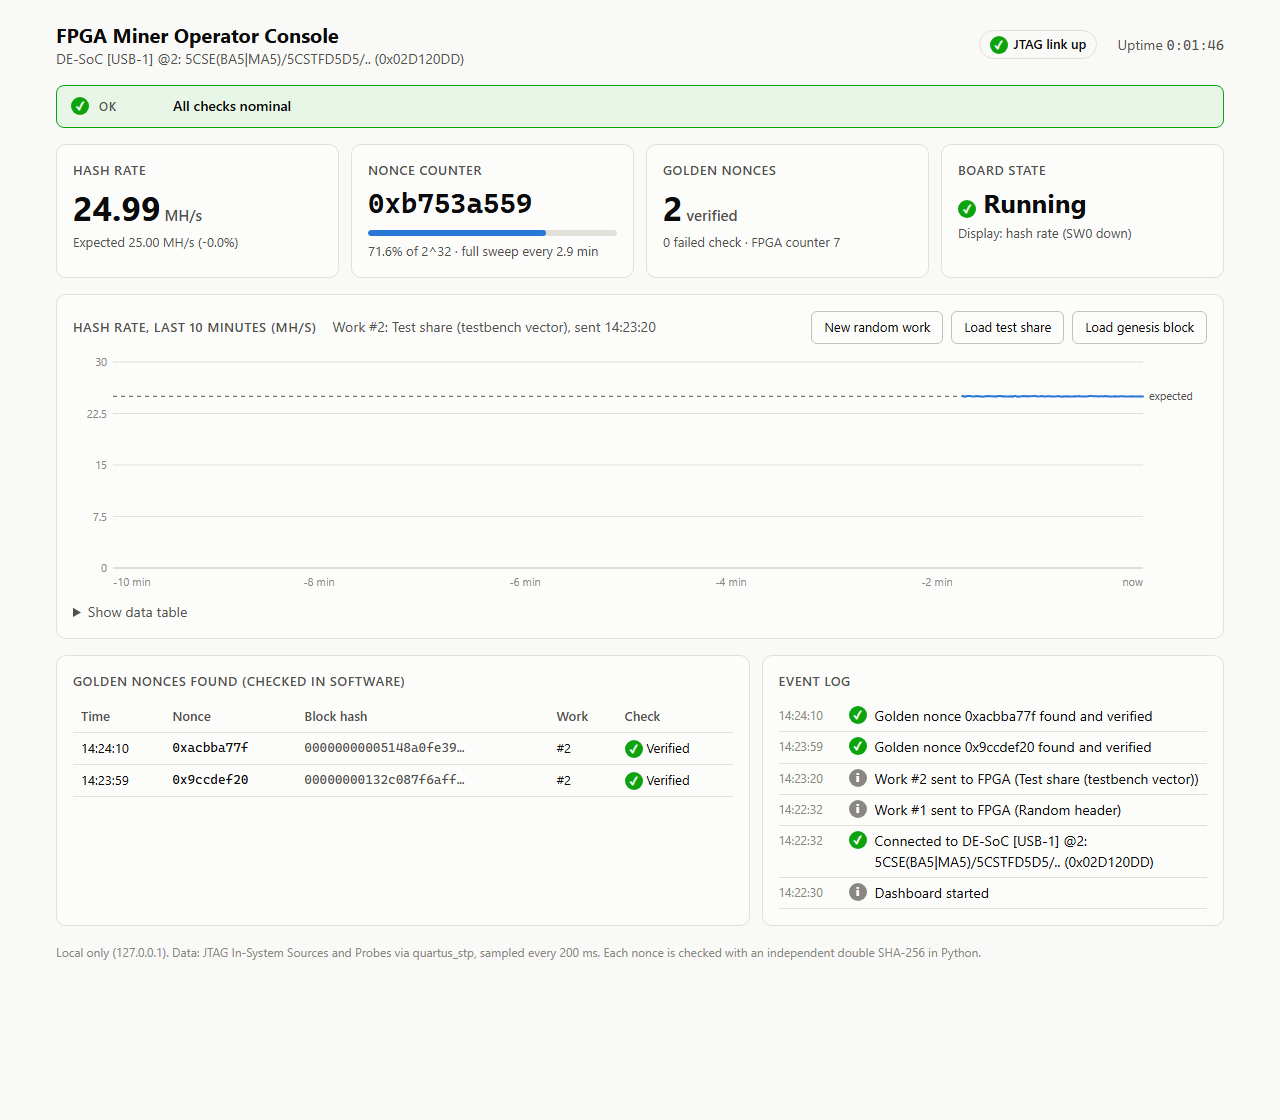
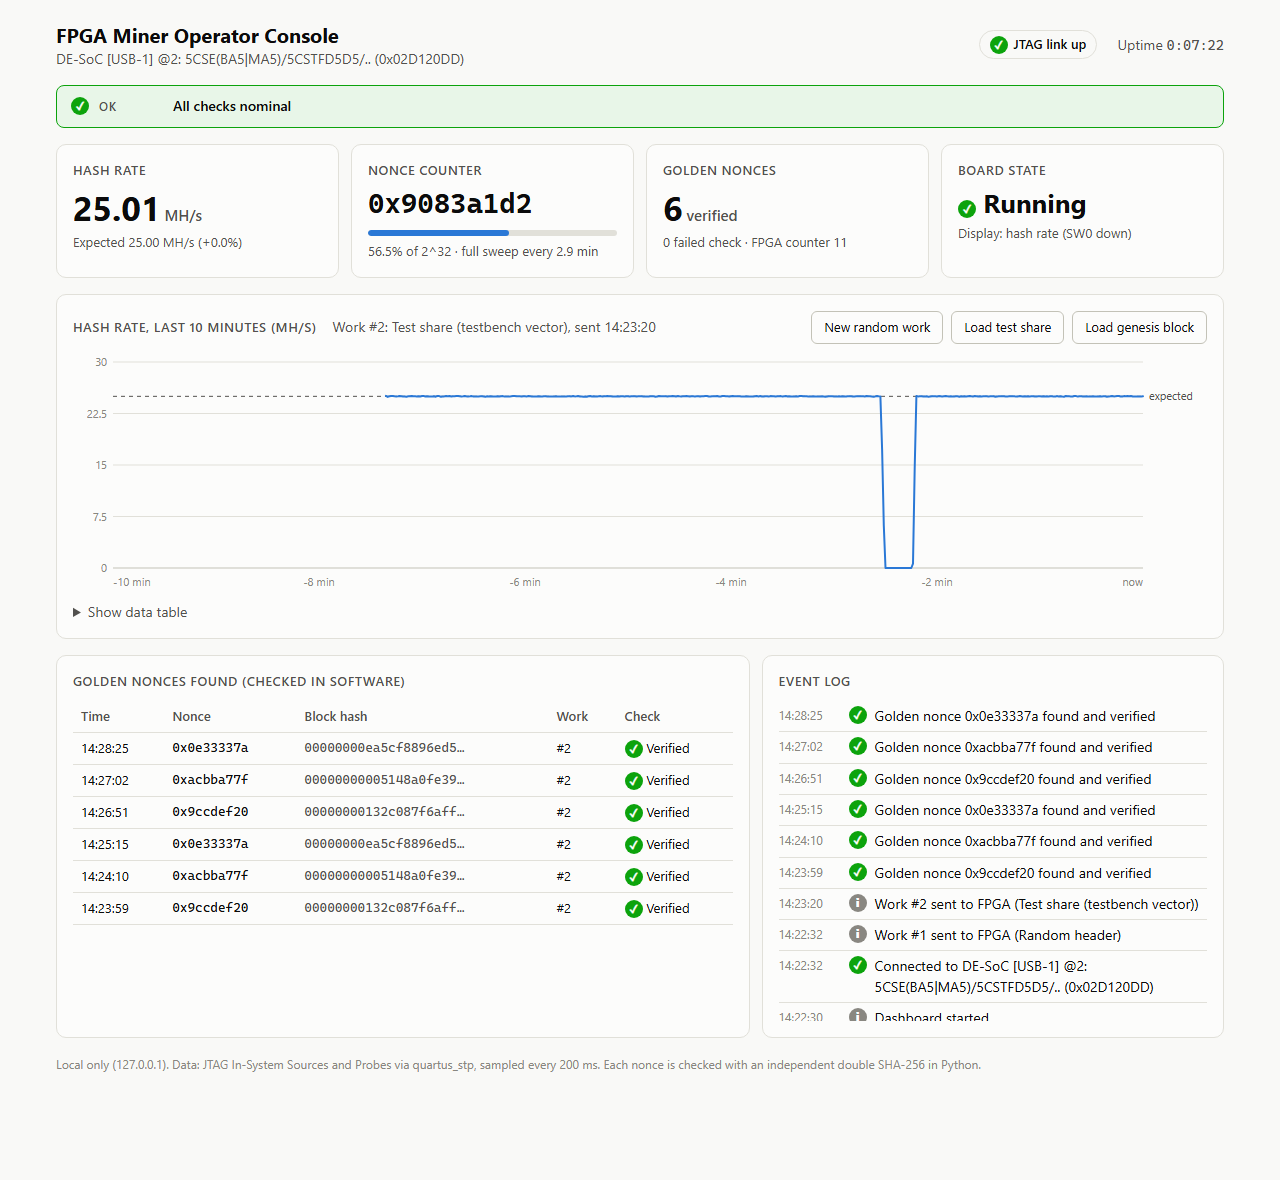
README: dashboard screenshot up front, explain mining and SHA-256
- Fresh screenshot from the live board (six verified nonces, halt test)
  placed under the status table
- "How it works": block header and proof-of-work, the SHA-256
  compression, midstate/double-hash split between host and FPGA, the
  round-unit pipeline and LOOP_LOG2 trade-off, golden-nonce offset
- Economics with November 2026 network figures: why this cannot profit
- Dashboard: evaluate alarms on a background timer so events raised and
  cleared while no browser is open are still logged

diff --git a/scripts/hmi/dashboard.py b/scripts/hmi/dashboard.py
@@ -445,6 +445,14 @@ def main():
             sys.exit("Quartus (quartus_stp.exe) not found. Set QUARTUS_ROOTDIR or install to D:\\altera_lite.")
         Bridge(monitor, stp).start()
 
+    # Evaluate alarms continuously, not only when a browser polls, so alarms
+    # raised and cleared while nobody is watching still reach the event log.
+    def evaluate_alarms():
+        while True:
+            monitor.snapshot()
+            time.sleep(0.5)
+    threading.Thread(target=evaluate_alarms, daemon=True).start()
+
     server = ThreadingHTTPServer(("127.0.0.1", args.port), make_handler(monitor))
     print(f"Dashboard: http://127.0.0.1:{args.port}  (Ctrl+C to stop)")
     try:

diff --git a/README.md b/README.md
@@ -19,13 +19,104 @@ boards and Quartus II 10.x from 2011.
 | Self-test | 2/2 known-answer vectors passed on the board |
 | Independent check | The FPGA also found two nonces that were not planted (`0x9ccdef20`, `0xacbba77f`). Both were confirmed as valid with `hashlib` |
 
+![Operator dashboard running against the DE1-SoC](docs/dashboard.png)
+
+*The operator dashboard running live against the DE1-SoC: 25 MH/s, with six
+golden nonces found by the FPGA and each re-verified in software. The dip to
+0 MH/s is an operator halt test using SW9 on the board.*
+
+### How it works
+
+#### Bitcoin mining in one paragraph
+
+A Bitcoin block header is 80 bytes: version, previous block hash, Merkle root
+of the block's transactions, timestamp, difficulty target (`bits`) and a 32-bit
+**nonce**. The block's hash is `SHA-256(SHA-256(header))`, read as a 256-bit
+little-endian number. A block is valid only if that number is below the
+network target. SHA-256 cannot be reversed, so the only way to find a valid
+header is to try nonces one after another and hash each one. That is the work
+in proof-of-work. The miner whose header meets the target first earns the block
+reward, which is paid to an address in a transaction the miner put in the block.
+
+#### SHA-256
+
+SHA-256 processes data in 512-bit blocks and keeps a state of eight 32-bit
+words `H0..H7`, starting from fixed constants. Each block goes through one
+*compression*:
+
+1. **Message schedule.** The block supplies 16 words `W0..W15`. 48 more are
+   derived as `W[t] = σ1(W[t-2]) + W[t-7] + σ0(W[t-15]) + W[t-16]`, where σ0
+   and σ1 are fixed rotate/shift/XOR mixes.
+2. **64 rounds.** Working variables `a..h` start from the state. Each round
+   computes `T1 = h + Σ1(e) + Ch(e,f,g) + K[t] + W[t]` and
+   `T2 = Σ0(a) + Maj(a,b,c)`, then shifts the variables down one place, with
+   `e += T1` and a new `a = T1 + T2`. Ch ("choose") and Maj ("majority") are
+   bitwise selectors, and `K[t]` are 64 fixed constants.
+3. **Feed-forward.** The final `a..h` are added to the starting state, giving
+   the new `H0..H7`.
+
+All arithmetic is 32-bit addition modulo 2^32. A padded 80-byte header is two
+blocks; the 32-byte result of the first hash, padded, is one more.
+
+#### How this hardware computes it
+
+| Step | Where | What |
+|------|-------|------|
+| Midstate | Host, once per work unit | The first 64 bytes of the header contain no nonce, so their compression is the same for every nonce. The host computes it once and writes the result (`STAT`) to the FPGA. The remaining 12 header bytes go in `DAT2`. |
+| Hash 1, block 2 | FPGA | Starting from the midstate: the last 12 header bytes, plus the nonce, plus SHA-256 padding. |
+| Hash 2 | FPGA | SHA-256 of the 32-byte result, starting from the standard initial values. |
+| Target check | FPGA, then host | The FPGA flags a **golden nonce** when the top 32 bits of the final hash are zero, meaning it is below 2^224 ("difficulty 1"). The host then checks the full hash in software. |
+
+That is 2 compressions, or 128 rounds, per nonce. Each round is one
+`sha256_digester`: one round's adders plus pipeline registers holding the
+working variables and a 16-word sliding window of the message schedule. Most of
+the 31k registers are in these windows. `sha256_transform` chains round units
+into a pipeline:
+
+- **`CONFIG_LOOP_LOG2=0`**: 64 units per compression, 128 in total. One new
+  nonce enters every clock.
+- **`CONFIG_LOOP_LOG2=2`** (this build): 16 units per compression, 32 in total,
+  each reused for 4 consecutive rounds. That is a quarter of the logic and a quarter of the
+  throughput, so 100 MHz / 4 = **25 MH/s**.
+
+Because the pipeline is deep, the nonce counter has moved on by the time a
+result comes out. The reported nonce is therefore `current nonce − pipeline
+latency`, which is why the HMI masks the check while the counter is halted.
+
+#### Can it make money? No, by about ten orders of magnitude
+
+Figures as of November 2026: network hash rate about 1,000 EH/s (10^21 hashes
+per second), difficulty about 148 T, block reward 3.125 BTC.
+
+| | |
+|---|---|
+| This board's share of the network | 25 × 10^6 / 10^21 = **2.5 × 10^-14** |
+| Hashes needed to find one block | difficulty × 2^32 ≈ 6 × 10^23 |
+| Expected time to find a block solo | **about 800 million years** at 25 MH/s |
+| Expected earnings at the board's share | 450 BTC/day × 2.5 × 10^-14 ≈ **0.4 satoshi per year** (1 satoshi = 10^-8 BTC) |
+| Electricity | A few watts, costing far more than that |
+
+A real block needs roughly 79 leading zero bits in the hash. This design's
+golden nonces have 32. They prove the pipeline computes SHA-256 correctly, but
+they are worth nothing on the network.
+
+Pools don't help either. They pay out per *share* of work, but their minimum
+share difficulty is far above difficulty 1, and they now use the Stratum
+protocol rather than the getwork protocol this code speaks. A single current
+ASIC miner runs at hundreds of TH/s, millions of times faster than this board.
+Mining for real would also need a Bitcoin address to receive payouts, which
+this project deliberately does not have.
+
+This is an FPGA design, verification and HMI exercise that uses Bitcoin's
+hashing as a well-defined, independently checkable workload.
+
 ### What changed
 
 | Area | Change |
 |------|--------|
 | Board support | New `boards/DE1_SoC` pin and device constraints (50 MHz clock on `PIN_AF14`). |
 | Clocking | New `cores/cyclone_v_pll`: Cyclone V has no `altpll`, so this wraps `altera_pll`. It keeps the same integer parameters as the Cyclone IV version, so the shared top-level is unchanged. `altera_pll` takes its frequencies as strings, which are generated in SystemVerilog as typed `string` parameters. Plain Verilog bit-vector strings are rejected by Quartus (Error 114000). The PLL is bypassed when no frequency change is needed. |
-| Project | `projects/DE1_SoC_Unoptimized_Pipelined`: SHA-256 pipeline with 32 stages per hash (`CONFIG_LOOP_LOG2=2`), clocked at 100 MHz, giving 25 MH/s. The 64-stage configuration needed 37.8k ALMs (118% of the device), so the design trades pipeline depth for clock rate. |
+| Project | `projects/DE1_SoC_Unoptimized_Pipelined`: SHA-256 pipeline with 32 round units (16 per compression, each reused 4 times; `CONFIG_LOOP_LOG2=2`), clocked at 100 MHz, giving 25 MH/s. The 64-stage configuration needed 37.8k ALMs (118% of the device), so the design trades pipeline depth for clock rate. |
 | JTAG / programming | On SoC boards the ARM HPS debug port is first on the JTAG chain (`@1`) and the FPGA is second (`@2`). The original script programmed `@1`. It now finds the FPGA by name, and skips the device prompts when there is only one choice. |
 | Tooling | `scripts/de1soc`: one-step build, program and Quartus install scripts, using 64-bit Quartus binaries. |
 
@@ -74,11 +165,8 @@ There are two layers, both reading the same firmware. Details are in
   re-verified in software** against the work sent to the FPGA. Alarms follow the
   ISA-18.2 latch-and-acknowledge pattern: link loss, stalled pipeline, failed
   verification (latched until acknowledged), rate out of tolerance, and
-  operator halt.
-
-![Operator dashboard running against the DE1-SoC](docs/dashboard.png)
-
-*Live on the DE1-SoC: 25 MH/s, and two nonces found by the FPGA and verified in software.*
+  operator halt. Alarms are evaluated continuously in the background, so they
+  are logged even when no browser is open. See the screenshot at the top.
 
 ### Quick start (Windows)
 
